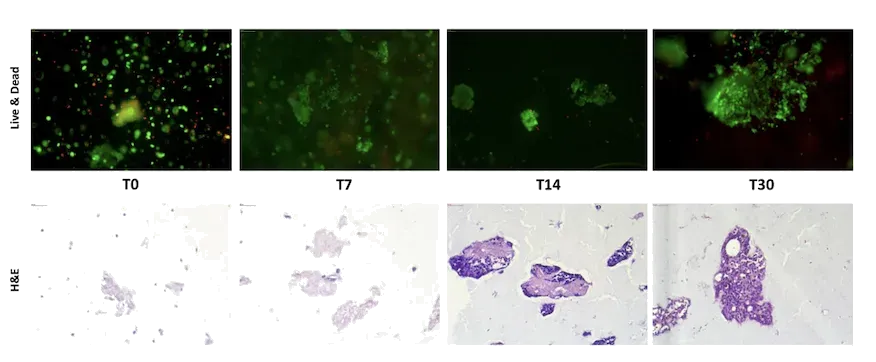
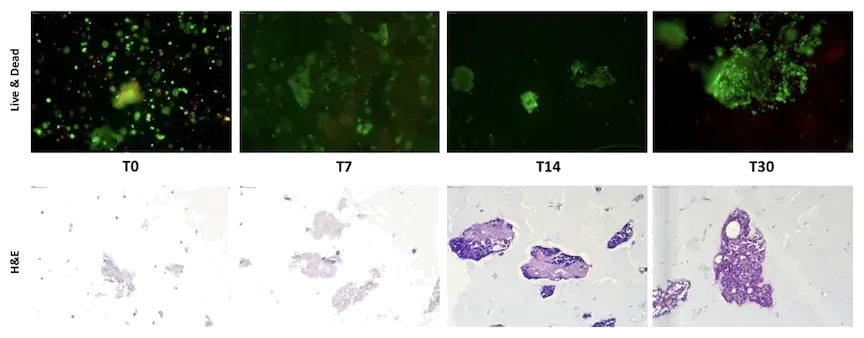
assets: crop empty borders and center all images in cards

diff --git a/src/css/style.css b/src/css/style.css
@@ -751,9 +751,12 @@ h1, h2, h3, h4 {
   width: 100%;
   aspect-ratio: 16 / 10;
   object-fit: contain;
+  object-position: center;
   padding: var(--s-3);
   background: var(--bg-tint);
   border-bottom: 1px solid var(--line);
+  display: block;
+  margin: 0 auto;
 }
 
 .ingredient-content {
@@ -912,9 +915,14 @@ h1, h2, h3, h4 {
 }
 
 .step-img {
-  width: 100%;
-  height: 100%;
+  max-width: 100%;
+  max-height: 100%;
+  width: auto;
+  height: auto;
   object-fit: contain;
+  object-position: center;
+  margin: auto;
+  display: block;
   background: transparent;
 }
 
